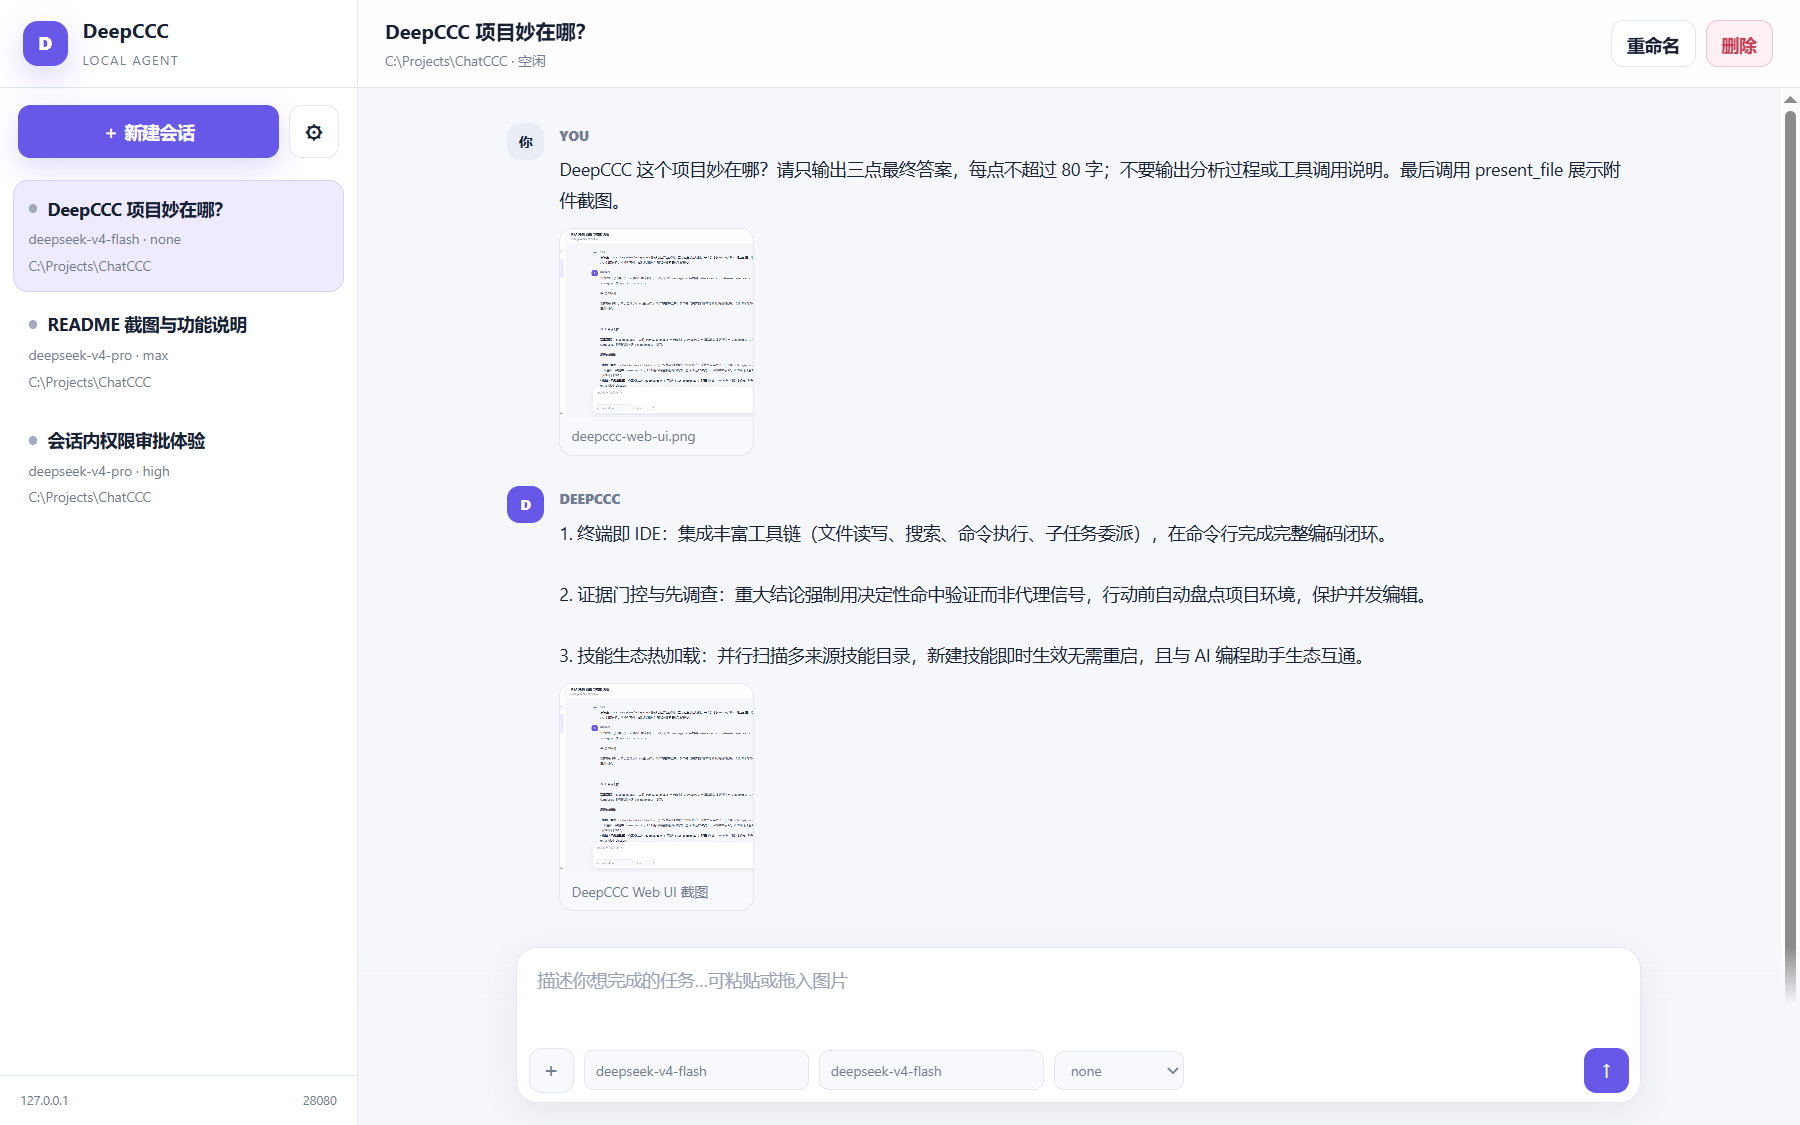
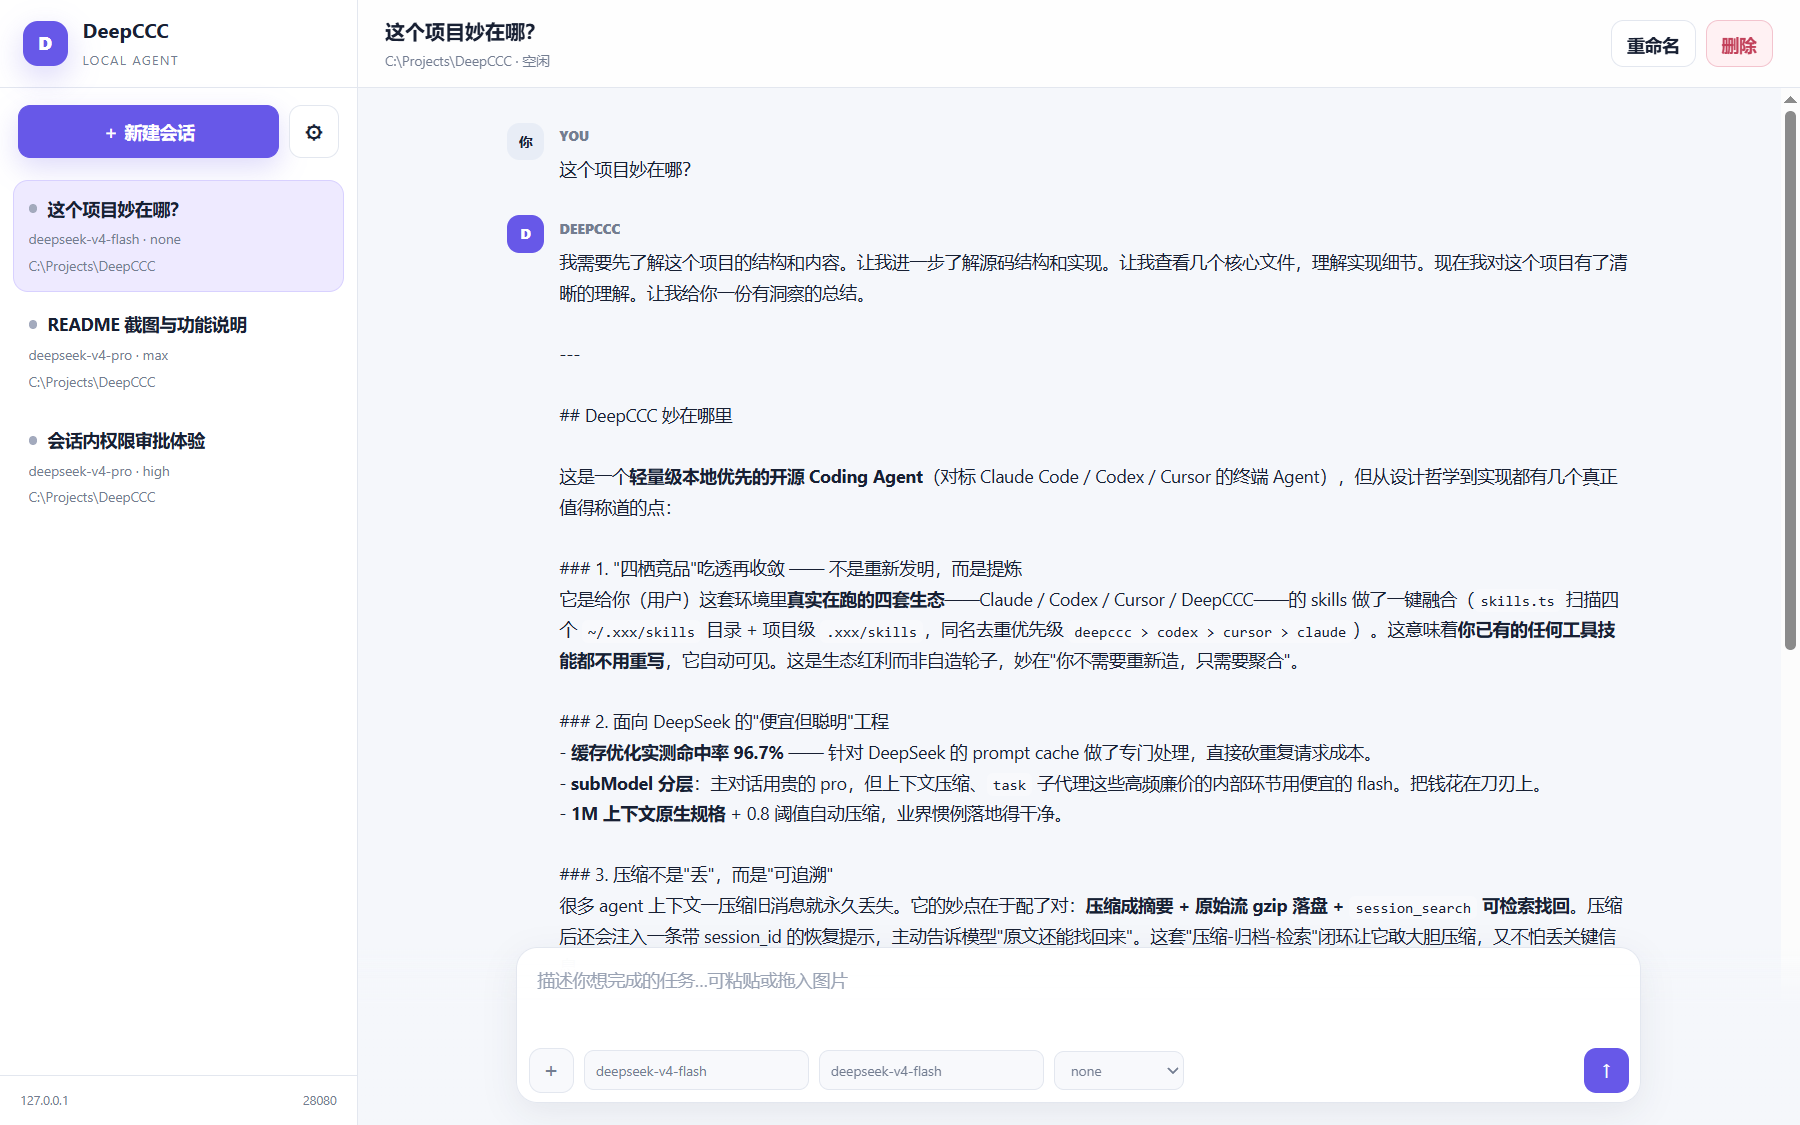
release: DeepCCC 0.2.6

diff --git a/README.md b/README.md
@@ -43,8 +43,7 @@ npm run dev
 实际运行结果。
 
 多会话可以并行处理不同任务，每个会话分别选择 model、subModel 和 effort。下图来自
-真实提问“DeepCCC 这个项目妙在哪”，同时展示了图片附件输入与 Agent `present_file`
-图片回传：
+`deepccc-agent/` 工作目录中的真实提问“这个项目妙在哪？”：
 
 ![DeepCCC Web UI 图片附件与真实 Agent 回复](docs/deepccc-web-ui.png)
 
